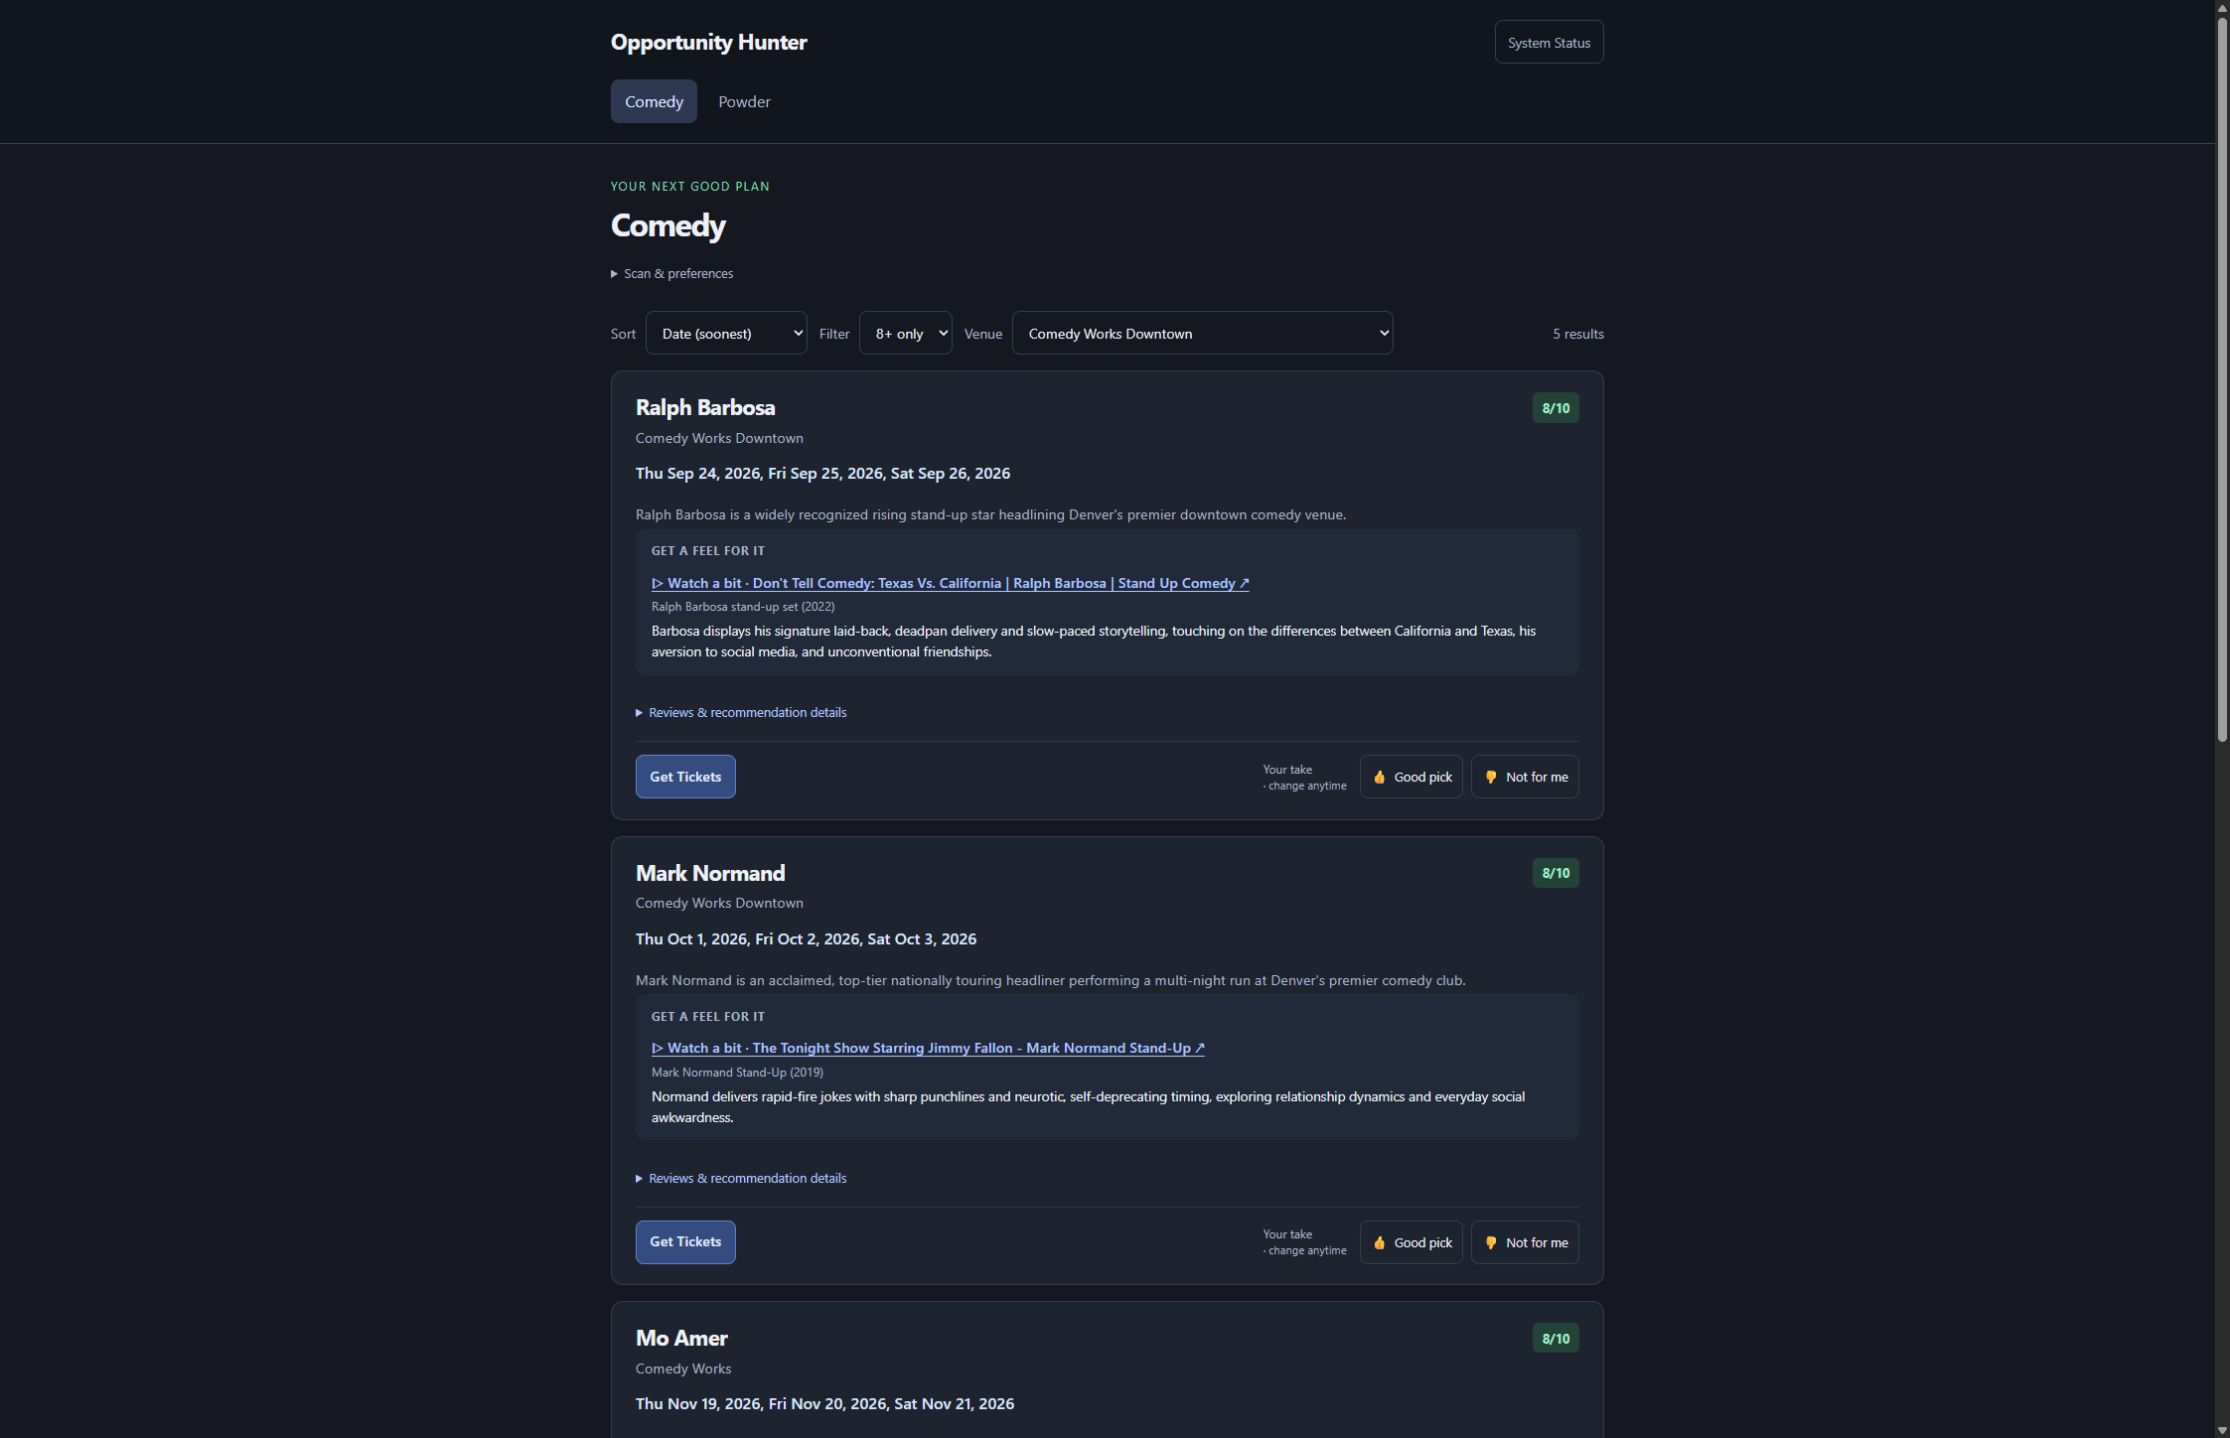
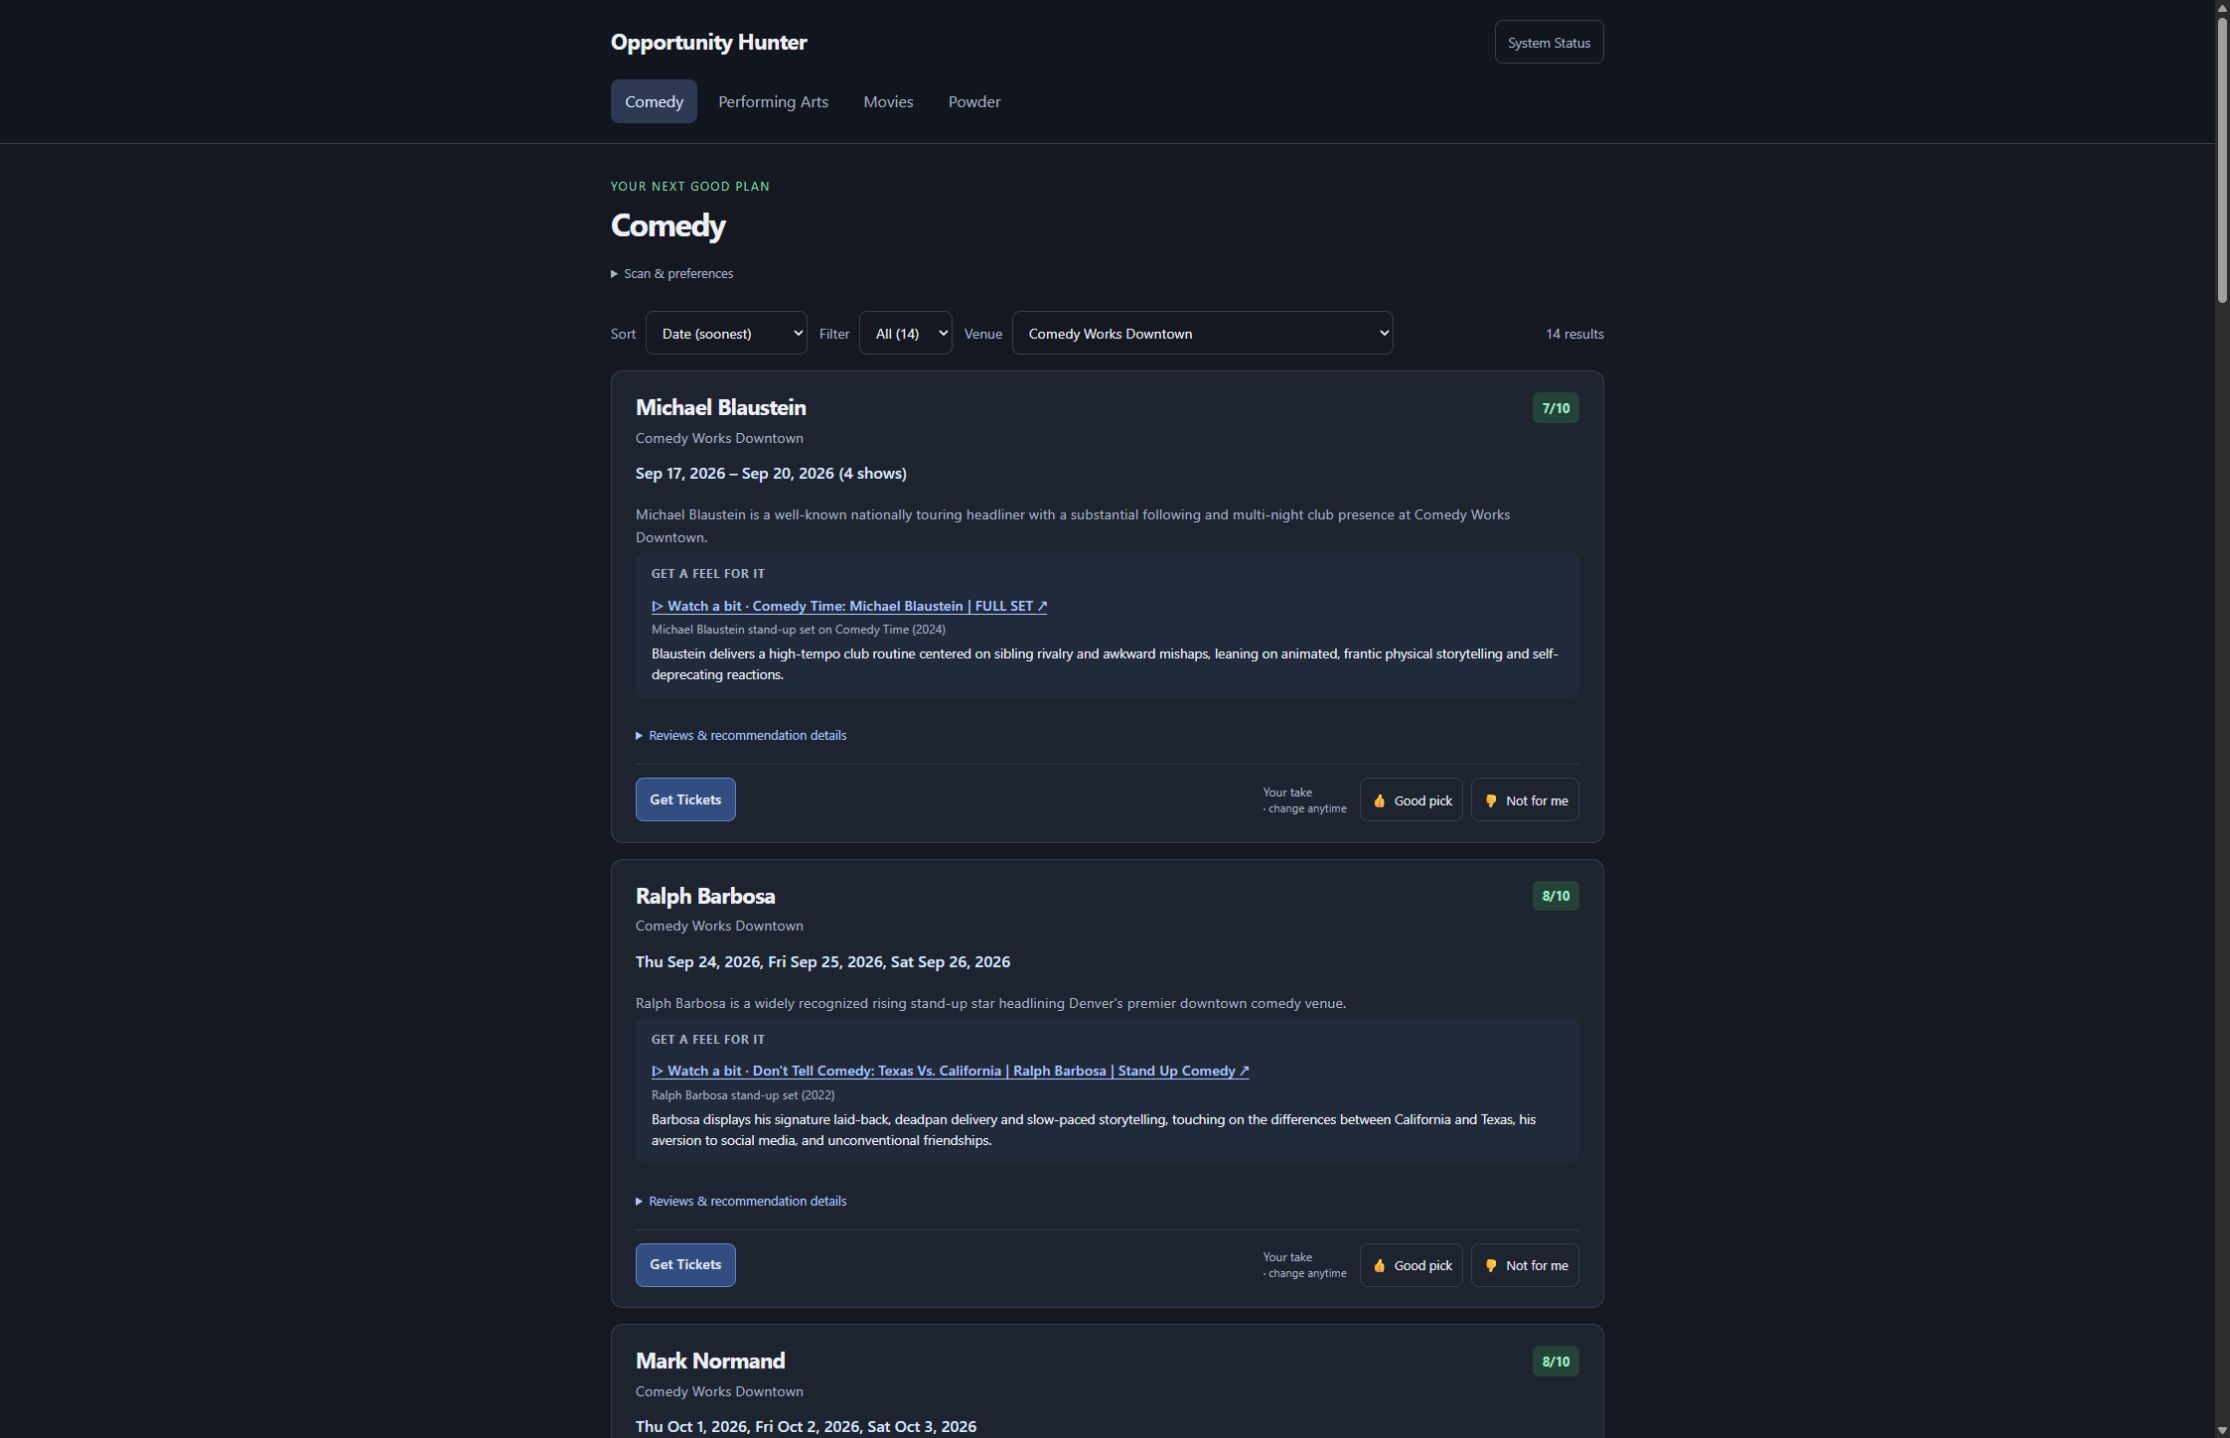
Record final venue-filter browser verification

diff --git a/docs/reviews/2026-09-12-venue-filter/review.md b/docs/reviews/2026-09-12-venue-filter/review.md
@@ -6,6 +6,6 @@ Uses the existing address-checked Comedy Works Downtown alias, preserving South 
 
 Web integration tests verify combined filtering, downtown alias membership, exclusion of South, redirects, and recovery for a venue with no current cards. Full Go tests and vet passed. A focused read-only reviewer found no actionable defect; the independent Gemini review confirmed the filtering and state behavior and found a count mismatch plus fragile address-label parsing. Both were corrected with regression tests. An empty-label guard was also added. The suggestion to move the established alias display mapping upstream was deferred because changing ingestion is outside this browsing feature.
 
-Browser interaction verification on an enriched production copy: Downtown selected 14 cards, adding 8+ selected 5, date ordering put Ralph Barbosa before Mark Normand; changing to Red Rocks selected 1 and returning preserved both score and date. Desktop and 390x844 mobile screenshots attached. The mobile venue control occupies a full-width row and the page has no horizontal overflow. This is a small extension of the previously reviewed controls; visual review used direct affected-render inspection. Local preview enabled comedy and powder only, with no scan or notification execution.
+Browser interaction verification on an enriched production copy: Downtown selected 14 cards, adding 8+ selected 5, date ordering put Ralph Barbosa before Mark Normand; changing to Red Rocks selected 1 and returning preserved both score and date. Desktop and 390x844 mobile screenshots attached. The mobile venue control occupies a full-width row and the page has no horizontal overflow. This is a small extension of the previously reviewed controls; visual review used direct affected-render inspection. Final preview enabled all four hunt renderers with placeholder credentials and no scan or notification execution. Buell Theatre selected 10 performing-arts cards, all with the expected venue. An unavailable venue showed the reset link; clicking it cleared the restriction. Final images show Downtown with All (14).
 
 Screenshots: desktop.png and mobile.png.
